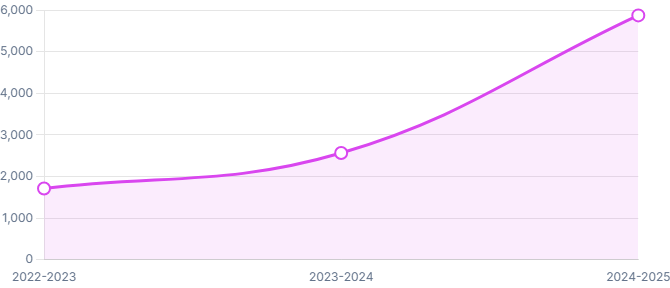
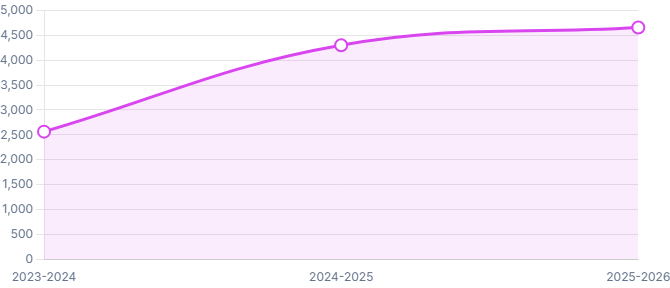
Update extracurricular activities dashboard with 2023-2026 data and export new diagrams

diff --git a/Tableau_de_Bord_Activites_Para.html b/Tableau_de_Bord_Activites_Para.html
@@ -58,7 +58,7 @@
                 <span class="text-transparent bg-clip-text bg-gradient-to-r from-brand-100 to-fuchsia-300">Activités Para-universitaires</span>
             </h1>
             <p class="text-lg sm:text-xl text-brand-100 max-w-2xl mx-auto font-light leading-relaxed">
-                Analyse statistique des clubs, compétitions artistiques et sorties académiques pour le rayonnement de la Faculté (2022-2025).
+                                Analyse statistique des clubs, activités et accompagnement pour le rayonnement de la Faculté (2023-2026).
             </p>
             <div class="mt-8">
                 <a href="index.html" class="inline-flex items-center px-6 py-3 border border-brand-500 text-brand-100 rounded-full hover:bg-brand-500 hover:text-white transition-all">
@@ -76,9 +76,9 @@
             <div class="glass-card rounded-2xl p-6 border-l-4 border-l-fuchsia-500">
                 <div class="flex items-center justify-between">
                     <div>
-                        <p class="text-sm font-semibold text-slate-500 uppercase tracking-wider mb-1">Nombre de Clubs (24/25)</p>
-                        <h3 class="text-3xl font-display font-bold text-slate-800">16 Clubs</h3>
-                        <p class="text-xs text-emerald-600 mt-2 font-medium"><i class="fa-solid fa-plus mr-1"></i> 2 nouveaux clubs vs 23/24</p>
+                        <p class="text-sm font-semibold text-slate-500 uppercase tracking-wider mb-1">Nombre de Clubs (25/26)</p>
+                        <h3 class="text-3xl font-display font-bold text-slate-800">23 Clubs</h3>
+                        <p class="text-xs text-emerald-600 mt-2 font-medium"><i class="fa-solid fa-plus mr-1"></i> 9 nouveaux clubs créés</p>
                     </div>
                     <div class="w-14 h-14 rounded-full bg-fuchsia-50 flex items-center justify-center text-fuchsia-500 text-2xl shadow-inner">
                         <i class="fa-solid fa-people-group"></i>
@@ -89,9 +89,9 @@
             <div class="glass-card rounded-2xl p-6 border-l-4 border-l-indigo-500">
                 <div class="flex items-center justify-between">
                     <div>
-                        <p class="text-sm font-semibold text-slate-500 uppercase tracking-wider mb-1">Étudiants Engagés (24/25)</p>
-                        <h3 class="text-3xl font-display font-bold text-slate-800">5,875</h3>
-                        <p class="text-xs text-emerald-600 mt-2 font-medium"><i class="fa-solid fa-arrow-trend-up mr-1"></i> +128% vs 23/24</p>
+                        <p class="text-sm font-semibold text-slate-500 uppercase tracking-wider mb-1">Programmes d'Accompagnement (25/26)</p>
+                        <h3 class="text-3xl font-display font-bold text-slate-800">4,652</h3>
+                        <p class="text-xs text-emerald-600 mt-2 font-medium"><i class="fa-solid fa-arrow-trend-up mr-1"></i> Bénéficiaires vs 4297 (24/25)</p>
                     </div>
                     <div class="w-14 h-14 rounded-full bg-indigo-50 flex items-center justify-center text-indigo-500 text-2xl shadow-inner">
                         <i class="fa-solid fa-id-badge"></i>
@@ -102,9 +102,9 @@
             <div class="glass-card rounded-2xl p-6 border-l-4 border-l-amber-500">
                 <div class="flex items-center justify-between">
                     <div>
-                        <p class="text-sm font-semibold text-slate-500 uppercase tracking-wider mb-1">Compétitions Artistiques</p>
-                        <h3 class="text-3xl font-display font-bold text-slate-800">06</h3>
-                        <p class="text-xs text-slate-500 mt-2 font-medium">Poésie, Théâtre, Arts Plastiques</p>
+                        <p class="text-sm font-semibold text-slate-500 uppercase tracking-wider mb-1">Activités Réalisées (25/26)</p>
+                        <h3 class="text-3xl font-display font-bold text-slate-800">08</h3>
+                        <p class="text-xs text-slate-500 mt-2 font-medium">Clubs (6) & Établissement (2)</p>
                     </div>
                     <div class="w-14 h-14 rounded-full bg-amber-50 flex items-center justify-center text-amber-500 text-2xl shadow-inner">
                         <i class="fa-solid fa-trophy"></i>
@@ -116,12 +116,12 @@
         <div class="grid grid-cols-1 lg:grid-cols-2 gap-8 mb-8">
             <!-- Membership Chart -->
             <div class="glass-card rounded-3xl p-8">
-                <h2 class="text-2xl font-display font-bold text-slate-800 mb-6">Évolution des Adhésions</h2>
+                <h2 class="text-2xl font-display font-bold text-slate-800 mb-6">Évolution de l'Accompagnement</h2>
                 <div class="h-64 sm:h-72 w-full relative">
                     <canvas id="membersChart"></canvas>
                 </div>
                 <div class="mt-6 p-4 bg-fuchsia-50 rounded-xl">
-                    <p class="text-sm text-fuchsia-900 font-medium">Explosion de l'engagement étudiant en 2024-2025 avec plus de 5800 membres inscrits à travers 16 clubs actifs.</p>
+                    <p class="text-sm text-fuchsia-900 font-medium">Progression constante des programmes d'accompagnement avec 4652 bénéficiaires en 2025-2026.</p>
                 </div>
             </div>
 
@@ -175,9 +175,9 @@
         <div class="glass-card rounded-3xl p-8">
             <div class="flex flex-col md:flex-row items-center gap-10">
                 <div class="flex-1">
-                    <h2 class="text-3xl font-display font-bold text-slate-800 mb-6">Concours & Talents</h2>
+                    <h2 class="text-3xl font-display font-bold text-slate-800 mb-6">Concours & Talents (24/25)</h2>
                     <p class="text-slate-600 mb-6 leading-relaxed">
-                        En 2024-2025, 39 étudiants ont été récompensés dans 6 catégories de compétitions nationales (الشعر - الرسم - الغناء - المسرح - العزف الآلي). Cet engagement témoigne de la richesse créative des étudiants de la FSSM au-delà des amphithéâtres.
+                        Données de la saison 2024-2025 : 39 étudiants ont été récompensés dans 6 catégories de compétitions nationales (الشعر - الرسم - الغناء - المسرح - العزف الآلي). Cet engagement témoigne de la richesse créative des étudiants de la FSSM.
                     </p>
                     <div class="space-y-4">
                         <div class="flex items-center">
@@ -204,17 +204,18 @@
                 <i class="fa-solid fa-flask text-fuchsia-500"></i>
                 <span class="font-display font-semibold text-white tracking-wide">FSSM Life Analytics</span>
             </div>
-            <p class="text-sm opacity-60">© 2024-2025 Faculté des Sciences Semlalia Marrakech. Données Vie Étudiante.</p>
+            <p class="text-sm opacity-60">© 2025-2026 Faculté des Sciences Semlalia Marrakech. Données Vie Étudiante (Mise à jour Février 2026).</p>
         </div>
     </footer>
 
     <script>
         // Data from Analysis
         const stats = {
-            years: ['2022-2023', '2023-2024', '2024-2025'],
-            members: [1710, 2565, 5875],
-            clubs: [14, 14, 16],
-            winners: [26, 24, 39]
+            years: ['2023-2024', '2024-2025', '2025-2026'],
+            beneficiaries: [2565, 4297, 4652],
+            clubs: [14, 16, 23],
+            activities: [58, 29, 8], // Clubs + Establishment
+            participants: [445, 9, 700]
         };
 
         // Charts configuration
@@ -227,8 +228,8 @@
             data: {
                 labels: stats.years,
                 datasets: [{
-                    label: 'Membres des Clubs',
-                    data: stats.members,
+                    label: 'Bénéficiaires Accompagnement',
+                    data: stats.beneficiaries,
                     borderColor: '#d946ef',
                     backgroundColor: 'rgba(217, 70, 239, 0.1)',
                     fill: true,

diff --git a/export_images.py b/export_images.py
@@ -9,17 +9,13 @@ except ImportError:
     sys.exit(1)
 
 def export_dashboards():
-    base_dir = r"c:\Users\yassi\OneDrive\Bureau\bilan"
+    base_dir = r"c:\Users\yassi\OneDrive\Bureau\NON TRIEe\bilan"
     output_dir = os.path.join(base_dir, "Images_Dashboards")
     
     if not os.path.exists(output_dir):
         os.makedirs(output_dir)
         
     html_files = [
-        "Tableau_de_Bord_FSSM.html",
-        "Tableau_de_Bord_Filiere_Digitale.html",
-        "Bilan_Detaille_Infrastructures.html",
-        "Tableau_de_Bord_Langues_Power_Skills.html",
         "Tableau_de_Bord_Activites_Para.html"
     ]
     
